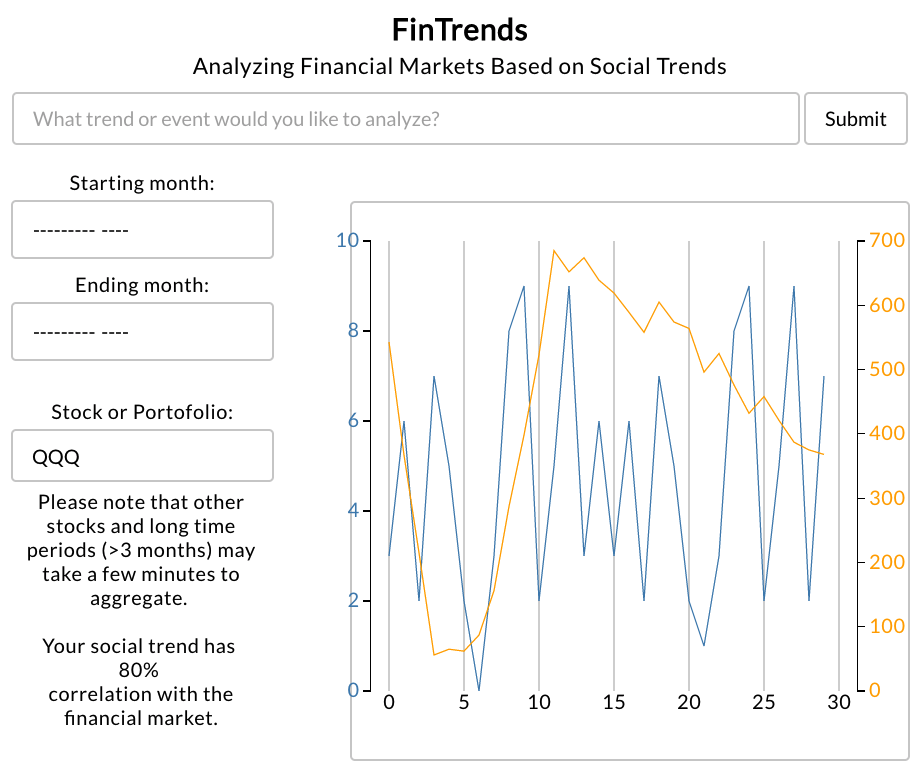
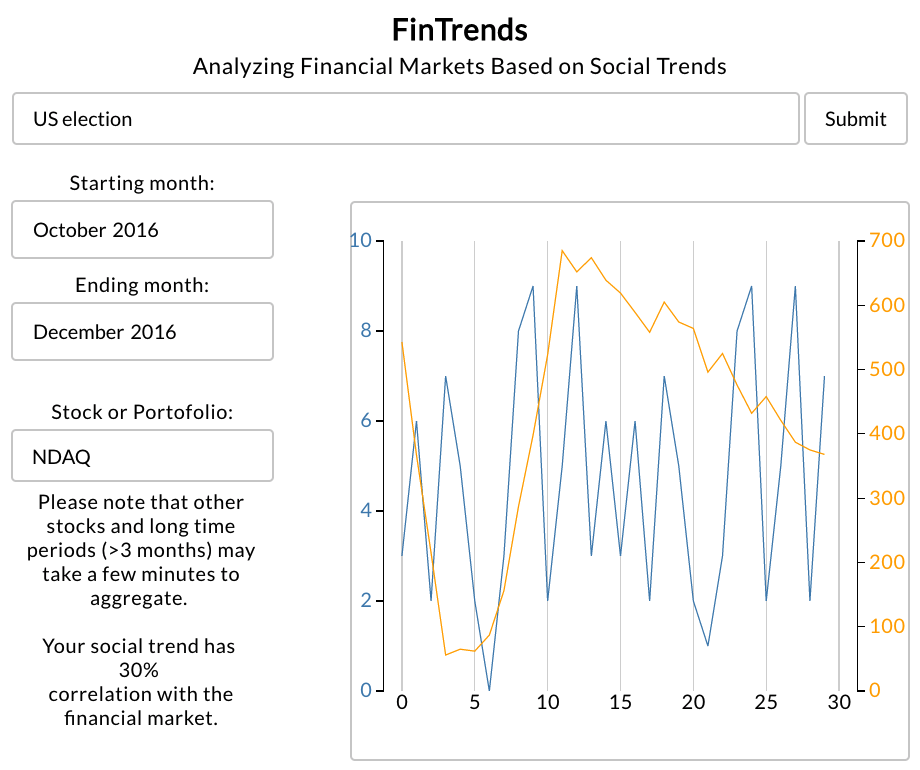
update

diff --git a/templates/index.html b/templates/index.html
@@ -40,21 +40,13 @@
     <div id="stockinfo">
       Stock or Portofolio:
       <div> <input type="text" id="stockname" value="QQQ" placeholder="stock name"> </div>
-<<<<<<< HEAD
-=======
-      <!--
->>>>>>> 285fae6c552b9d5e006312af1f13e63d83ba3cfc
       <div id="textnote">
         Please note that other stocks and long time periods (>3 months) may take a few minutes to aggregate.
         <br> <br>
         Your social trend has
         <br>
-        80%
+        30%
         <br> correlation with the financial market.
-<<<<<<< HEAD
-=======
-      -->
->>>>>>> 285fae6c552b9d5e006312af1f13e63d83ba3cfc
     </div>
   </div>
 

diff --git a/static/d3LineChart.js b/static/d3LineChart.js
@@ -3,7 +3,7 @@
 
 // define dimensions of graph
 var m = [80, 80, 80, 80]; // margins
-var w = 360;	// width
+var w = 350;	// width
 var h = 360; // height
 
 // create a simple data array that we'll plot with a line (this array represents only the Y values, X will just be the index location)

diff --git a/static/style.css b/static/style.css
@@ -115,7 +115,7 @@ body {
 #graph {
   position: relative;
   bottom: 60px;
-  right: 60px;
+  right: 50px;
 }
 
 /* tell the SVG path to be a thin blue line without any area fill */

diff --git a/README.md b/README.md
@@ -1,12 +1,7 @@
-<<<<<<< HEAD
 # FinTrends
 ### Work-in-progress
 
 This is a web application to visualize and analyze the correlation between financial markets and Google search social trends. The project is a WIP and the mockup can be seen below:
 
-
+<br />
 ![alt tag](examples/mockup.png)
-=======
-# Financial-trends
-
->>>>>>> 285fae6c552b9d5e006312af1f13e63d83ba3cfc
